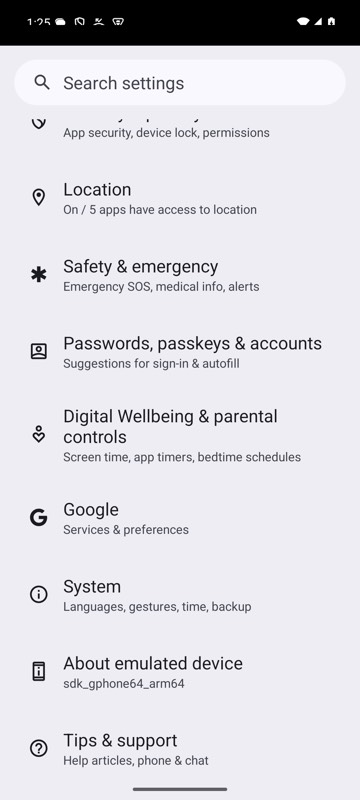
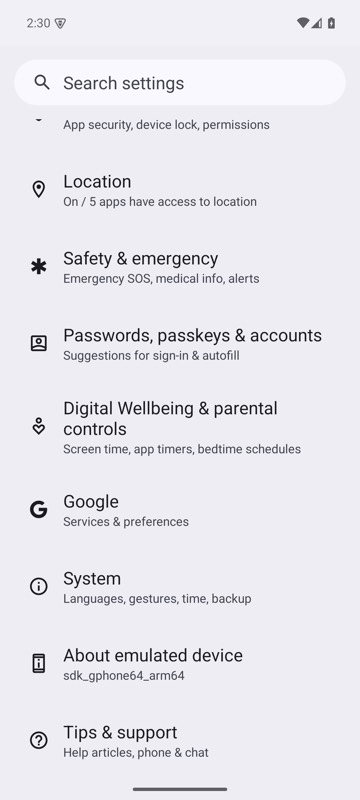
scroll-to: the horizontal pager beside scrolling down
Both examples now run on a device, each with before and after pictures on
every surface: Settings scrolled down to System, and MobiumApp's Pager Demo
scrolled right from Card 1 to Card 8. The pager's caption says what the
picture shows: scroll-to stops as soon as Card 8 is in the pager's view and
tappable, which there is its left edge.

diff --git a/scripts/capture.py b/scripts/capture.py
@@ -66,7 +66,13 @@ PLAN = [
     dict(tool="app_current", i=0),
     dict(tool="app_state", i=0),
     dict(tool="app_tap", i=0, setup=settings_root(), before=True, after=True),
-    dict(tool="app_scroll_to", i=0, setup=settings_root(), after=True),
+    dict(tool="app_scroll_to", i=0, setup=settings_root(), before=True, after=True),
+    # The horizontal case, on MobiumApp's Pager Demo: Card 8 starts off screen
+    # to the right, as mobium-app.sh checks.
+    dict(tool="app_scroll_to", i=1, setup=app_screen("Pager Demo") + ["wait 'label=Card 1'"], before=True, after=True,
+         caption="`mobium scroll-to \"label=Card 8\" --direction right` on MobiumApp's Pager Demo, Android 15 "
+                 "emulator: from Card 1 to where Card 8 is in the pager's view and can be tapped — it stops as soon "
+                 "as it is, so here only Card 8's left edge shows, at the right"),
     dict(tool="app_swipe", i=0, setup=settings_root(), before=True, after=True),
     dict(tool="app_batch", i=0, setup=settings_root(), files={"steps.json": "steps"}, after=True),
     dict(tool="app_press", i=1, setup=settings_root(), after=True),
